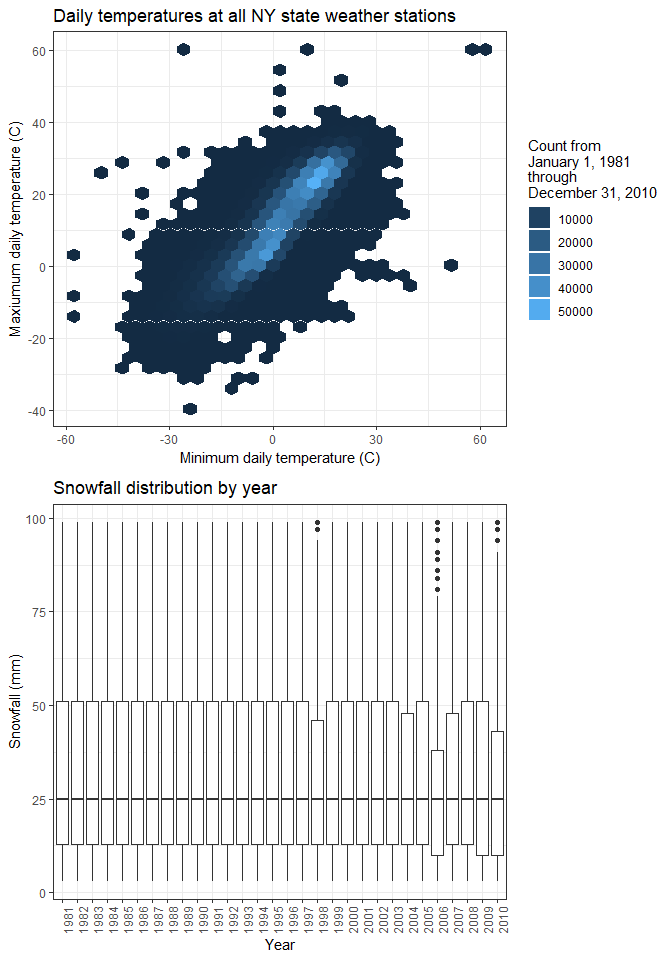
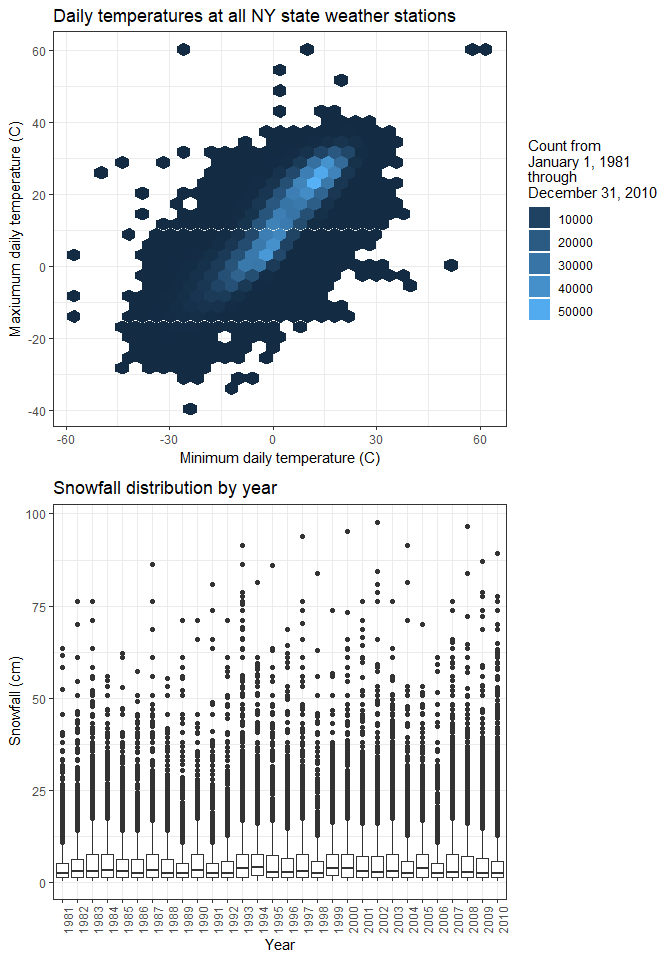
changed units of snowfall from mm to cm

diff --git a/homework_3.md b/homework_3.md
@@ -16,14 +16,14 @@ Load packages
 library(tidyverse)
 ```
 
-    ## -- Attaching packages ------------------------------------------------------------------------- tidyverse 1.2.1 --
+    ## -- Attaching packages ------------------------------------------------------------ tidyverse 1.2.1 --
 
     ## v ggplot2 3.0.0     v purrr   0.2.5
     ## v tibble  1.4.2     v dplyr   0.7.6
     ## v tidyr   0.8.1     v stringr 1.3.1
     ## v readr   1.1.1     v forcats 0.3.0
 
-    ## -- Conflicts ---------------------------------------------------------------------------- tidyverse_conflicts() --
+    ## -- Conflicts --------------------------------------------------------------- tidyverse_conflicts() --
     ## x dplyr::filter() masks stats::filter()
     ## x dplyr::lag()    masks stats::lag()
 
@@ -320,6 +320,7 @@ tmax_tmin = noaa_data %>%
  
 
 snow_plot = noaa_data %>% 
+  mutate(snow = snow/10) %>% #converting from mm to cm because between 0-100 mm does not encompass enough of the data to be an informative graph
   filter(snow > 0,
          snow < 100) %>% 
   mutate(year = as.factor(year)) %>% 
@@ -328,7 +329,7 @@ snow_plot = noaa_data %>%
   labs(
     title = "Snowfall distribution by year",
     x = "Year",
-    y = "Snowfall (mm)"
+    y = "Snowfall (cm)"
   ) + 
   theme_bw() +
   theme(axis.text.x = element_text(angle = 90, hjust = 1))
